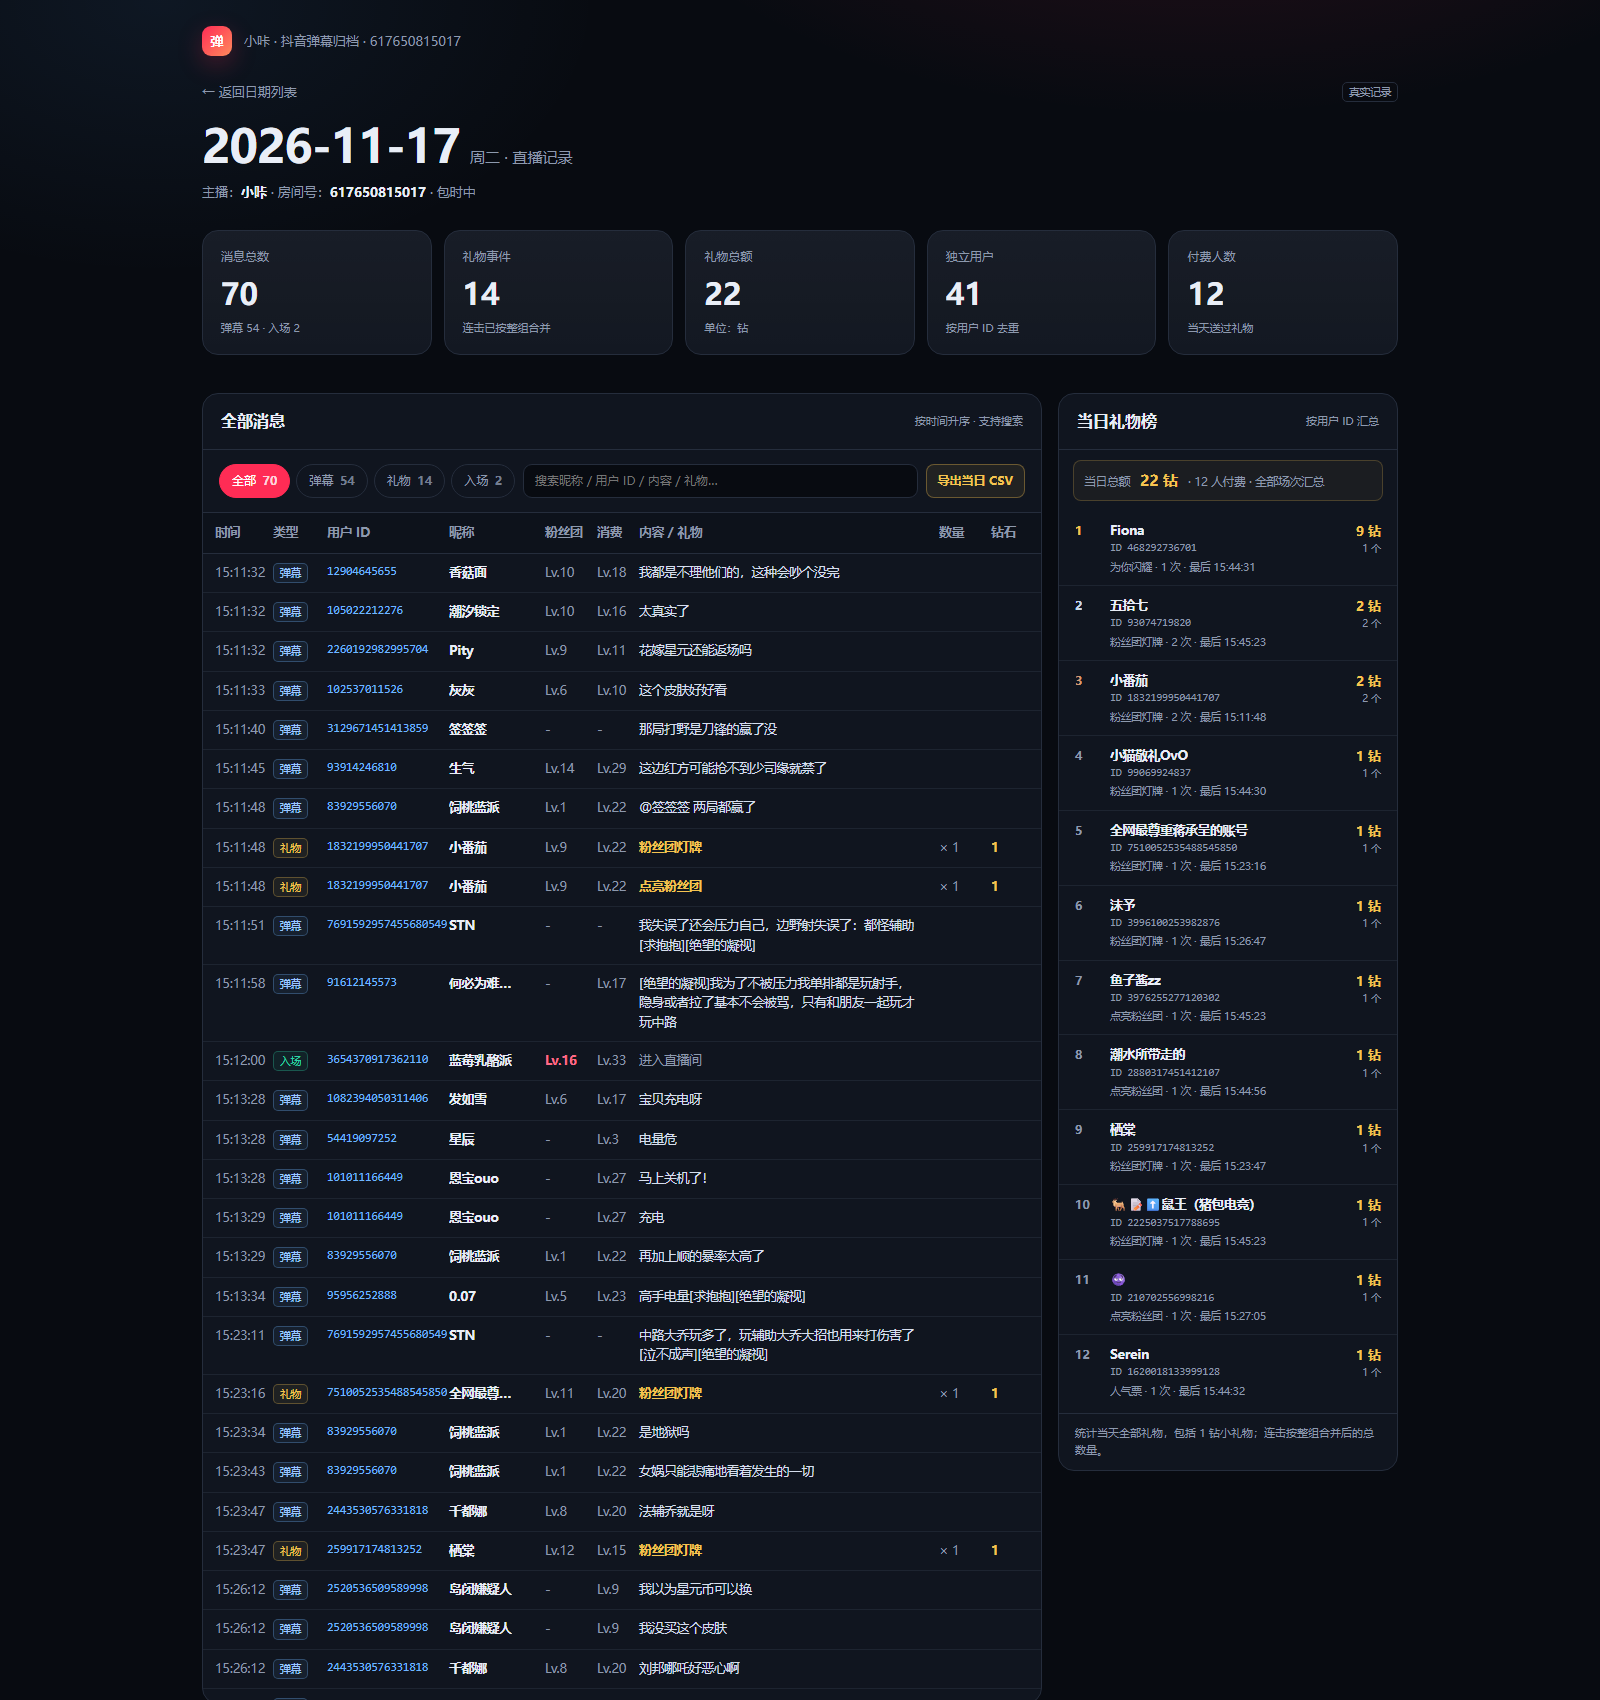
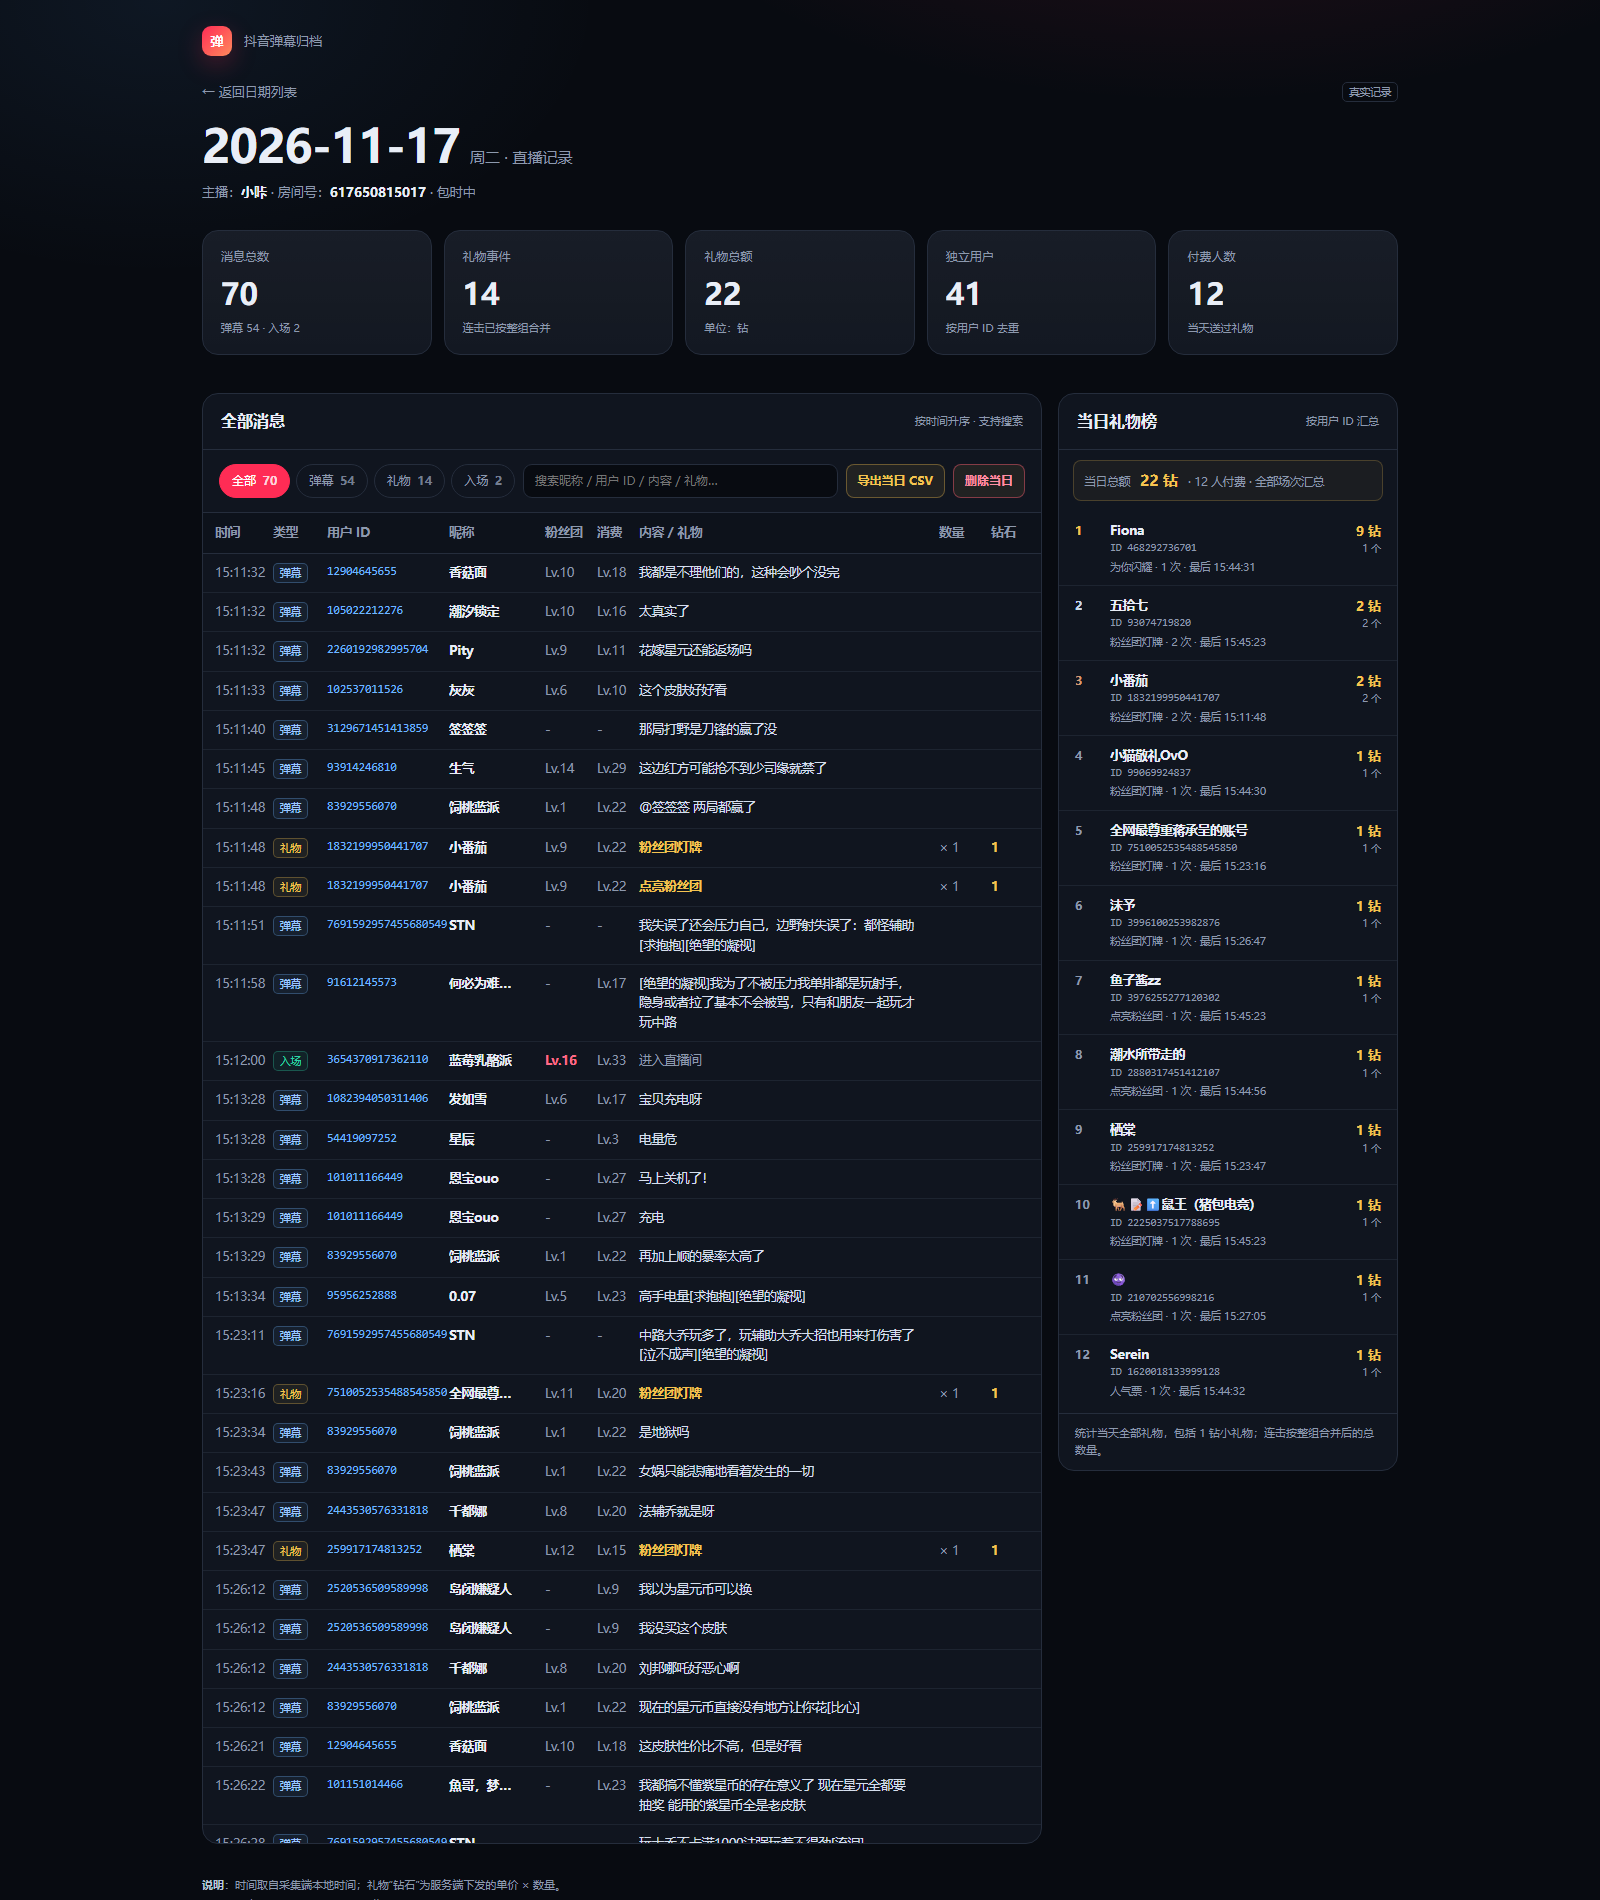
Add daily archive deletion and fixed brand bar

diff --git a/site_builder.py b/site_builder.py
@@ -192,6 +192,31 @@ def _room_meta_html(meta: dict[str, Any], live_id: str | None) -> str:
     return " · ".join(parts)
 
 
+def _deleted_days_file(log_dir: str | Path, live_id: str | None) -> Path:
+    return Path(log_dir) / f"deleted_days_{live_id or 'all'}.json"
+
+
+def load_deleted_days(log_dir: str | Path, live_id: str | None) -> set[str]:
+    path = _deleted_days_file(log_dir, live_id)
+    try:
+        data = json.loads(path.read_text(encoding="utf-8"))
+    except Exception:
+        return set()
+    if not isinstance(data, list):
+        return set()
+    return {str(day) for day in data if len(str(day)) == 10}
+
+
+def mark_day_deleted(log_dir: str | Path, live_id: str | None, day: str) -> None:
+    days = load_deleted_days(log_dir, live_id)
+    days.add(day)
+    path = _deleted_days_file(log_dir, live_id)
+    path.parent.mkdir(parents=True, exist_ok=True)
+    path.write_text(
+        json.dumps(sorted(days), ensure_ascii=False, indent=2), encoding="utf-8"
+    )
+
+
 def load_messages_from_logs(
     log_dir: str | Path, live_id: str | None = None
 ) -> list[dict[str, Any]]:
@@ -250,6 +275,9 @@ def load_messages_from_logs(
             gift_best[key] = row
 
     rows = list(chat_best.values()) + list(gift_best.values())
+    deleted_days = load_deleted_days(log_dir, live_id)
+    if deleted_days:
+        rows = [r for r in rows if r["received_at"][:10] not in deleted_days]
     rows.sort(key=lambda r: (r["received_at"], r["msg_id"]))
     return rows
 
@@ -607,6 +635,8 @@ h1 { margin: 10px 0 12px; font-size: clamp(34px, 5vw, 56px); line-height: 1.12; 
   padding: 7px 11px; font: inherit; font-size: 12px; font-weight: 650;
 }
 .btn:hover { background: rgba(245,196,81,.16); }
+.btn.danger { color: #ff8fa3; border-color: rgba(255,93,115,.45); }
+.btn.danger:hover { background: rgba(255,93,115,.14); }
 .board-sum {
   display: flex; align-items: baseline; gap: 10px; flex-wrap: wrap;
   margin: 10px 14px 2px; padding: 8px 10px; border: 1px solid rgba(245,196,81,.22);
@@ -701,7 +731,7 @@ INDEX_TEMPLATE = """<!doctype html>
 </head>
 <body>
 <div class="wrap">
-  <div class="brandbar"><span class="logo">弹</span><span>__TITLE__</span></div>
+  <div class="brandbar"><span class="logo">弹</span><span>抖音弹幕归档</span></div>
   <div class="hero">
     <div class="kicker">Douyin Live Archive</div>
     <h1>直播弹幕与礼物<br>按天归档</h1>
@@ -755,7 +785,7 @@ DAY_TEMPLATE = """<!doctype html>
 </head>
 <body>
 <div class="wrap">
-  <div class="brandbar"><span class="logo">弹</span><a href="index.html">__TITLE__</a></div>
+  <div class="brandbar"><span class="logo">弹</span><a href="index.html">抖音弹幕归档</a></div>
   <div class="daynav"><a class="back" href="index.html">← 返回日期列表</a><span class="badge">__BADGE_TEXT__</span></div>
   <div class="day-title"><h1>__DATE__</h1><span class="weekday">__WEEKDAY__ · 直播记录</span></div>
   <div class="day-meta">__ROOM_META__</div>
@@ -779,6 +809,7 @@ DAY_TEMPLATE = """<!doctype html>
         </div>
         <input id="search" class="search" placeholder="搜索昵称 / 用户 ID / 内容 / 礼物…">
         <button class="btn" id="export-day">导出当日 CSV</button>
+        <button class="btn danger" id="delete-day">删除当日</button>
       </div>
       <div class="table-wrap">
         <table>
@@ -908,6 +939,23 @@ function downloadDayCsv() {
   URL.revokeObjectURL(a.href);
 }
 document.getElementById("export-day").addEventListener("click", downloadDayCsv);
+async function deleteDay() {
+  const day = "__DATE__";
+  if (!confirm("确定从归档中删除 " + day + " 的记录吗？原始日志会保留。" )) return;
+  try {
+    const resp = await fetch("/api/delete-day", {
+      method: "POST",
+      headers: {"Content-Type": "application/json"},
+      body: JSON.stringify({day: day})
+    });
+    const result = await resp.json().catch(() => ({}));
+    if (!resp.ok || !result.ok) throw new Error(result.error || "删除失败");
+    location.href = "index.html";
+  } catch (err) {
+    alert("删除失败：" + err.message + String.fromCharCode(10) + String.fromCharCode(10) + "请从弹幕助手打开归档网站后再删除。" );
+  }
+}
+document.getElementById("delete-day").addEventListener("click", deleteDay);
 </script>
 </body>
 </html>
@@ -1028,6 +1076,12 @@ def build_site(
             _render_day(title, day, day_rows, mock, meta=meta, live_id=live_id),
             encoding="utf-8",
         )
+    for stale in out.glob("????-??-??.html"):
+        if stale.stem not in days:
+            try:
+                stale.unlink()
+            except OSError:
+                pass
     manifest = {
         "title": title,
         "generated_at": datetime.now().strftime("%Y-%m-%d %H:%M:%S"),

diff --git a/site_server.py b/site_server.py
@@ -1,0 +1,95 @@
+# -*- coding: utf-8 -*-
+"""Local static-site server with a tiny delete API.
+
+The archive is plain HTML, but deleting a day needs to update the local
+logs/manifest.  Serving the site from 127.0.0.1 lets the page call a local
+API without requiring an external server.
+"""
+
+from __future__ import annotations
+
+import json
+from http.server import SimpleHTTPRequestHandler, ThreadingHTTPServer
+from pathlib import Path
+from threading import Thread
+from typing import Callable
+from urllib.parse import urlparse
+
+
+class SiteServer:
+    def __init__(
+        self,
+        directory: str | Path,
+        on_delete: Callable[[str], bool],
+    ):
+        self.directory = Path(directory)
+        self.on_delete = on_delete
+        self.httpd = ThreadingHTTPServer(("127.0.0.1", 0), self._handler())
+        self.thread = Thread(target=self.httpd.serve_forever, daemon=True)
+
+    @property
+    def port(self) -> int:
+        return int(self.httpd.server_address[1])
+
+    def start(self) -> "SiteServer":
+        self.thread.start()
+        return self
+
+    def stop(self) -> None:
+        try:
+            self.httpd.shutdown()
+        finally:
+            self.httpd.server_close()
+
+    def _handler(self):
+        outer = self
+
+        class Handler(SimpleHTTPRequestHandler):
+            def __init__(self, *args, **kwargs):
+                super().__init__(
+                    *args, directory=str(outer.directory), **kwargs
+                )
+
+            def log_message(self, fmt, *args):
+                pass
+
+            def _json(self, code: int, payload: dict):
+                body = json.dumps(payload, ensure_ascii=False).encode("utf-8")
+                self.send_response(code)
+                self.send_header("Content-Type", "application/json; charset=utf-8")
+                self.send_header("Content-Length", str(len(body)))
+                self.end_headers()
+                self.wfile.write(body)
+
+            def do_POST(self):
+                if urlparse(self.path).path != "/api/delete-day":
+                    self.send_error(404)
+                    return
+                try:
+                    length = int(self.headers.get("Content-Length", "0") or 0)
+                    if length <= 0 or length > 1_000_000:
+                        raise ValueError("empty request")
+                    payload = json.loads(self.rfile.read(length).decode("utf-8"))
+                    day = str(payload.get("day", "")).strip()
+                    if len(day) != 10 or day[4] != "-" or day[7] != "-":
+                        raise ValueError("invalid day")
+                except Exception as exc:
+                    self._json(400, {"ok": False, "error": str(exc)})
+                    return
+                try:
+                    ok = bool(outer.on_delete(day))
+                    self._json(
+                        200 if ok else 400,
+                        {"ok": ok, "error": "" if ok else "删除失败"},
+                    )
+                except Exception as exc:
+                    self._json(500, {"ok": False, "error": str(exc)})
+
+        return Handler
+
+
+def start_site_server(
+    directory: str | Path,
+    on_delete: Callable[[str], bool],
+) -> SiteServer:
+    return SiteServer(directory, on_delete).start()

diff --git a/aurora_gui.py b/aurora_gui.py
@@ -64,6 +64,8 @@ class AuroraApp:
         self.gift_order: list[str] = []
         self._last_auto_export_events = -1
         self._auto_export_job = None
+        self.site_server = None
+        self._site_server_dir: Path | None = None
 
         self._setup_style()
         self._build_topbar()
@@ -816,7 +818,18 @@ class AuroraApp:
             pass
         if self.client is not None:
             self.client.stop()
+        self._stop_site_server()
         self.root.destroy()
+
+    def _stop_site_server(self):
+        server = self.site_server
+        self.site_server = None
+        self._site_server_dir = None
+        if server is not None:
+            try:
+                server.stop()
+            except Exception:
+                pass
 
     def _auto_export_loop(self):
         """定期把当天日志刷进静态站点；跨天时会自动生成新的日期页。"""
@@ -859,10 +872,43 @@ class AuroraApp:
             site_builder.build_site(
                 data, out, title=title, meta=meta, live_id=live_id
             )
+
+            def on_delete(day: str) -> bool:
+                if not live_id:
+                    return False
+                site_builder.mark_day_deleted(logs, live_id, day)
+                remaining = site_builder.load_messages_from_logs(
+                    logs, live_id=live_id
+                )
+                site_builder.build_site(
+                    remaining,
+                    out,
+                    title=title,
+                    meta=meta,
+                    live_id=live_id,
+                )
+                self._last_auto_export_events = -1
+                return True
+
             if open_browser:
                 import webbrowser
 
-                webbrowser.open((out / "index.html").as_uri())
+                if self.site_server is None or self._site_server_dir != out:
+                    self._stop_site_server()
+                    try:
+                        from site_server import start_site_server
+
+                        self.site_server = start_site_server(out, on_delete)
+                        self._site_server_dir = out
+                    except Exception:
+                        self.site_server = None
+                        self._site_server_dir = None
+                if self.site_server is not None:
+                    webbrowser.open(
+                        f"http://127.0.0.1:{self.site_server.port}/index.html"
+                    )
+                else:
+                    webbrowser.open((out / "index.html").as_uri())
             if not quiet:
                 messagebox.showinfo("导出网站", f"已导出 {len(data)} 条消息到：\n{out}")
             return True

diff --git a/README_GUI.md b/README_GUI.md
@@ -82,11 +82,13 @@ site_617650815017/
 ```
 
 - **自动更新**：程序运行期间每 2 分钟检查一次，有新内容就重新生成；关闭程序时再更新一次。跨天会自动生成新的日期页。
+- 网站最上面固定显示「抖音弹幕归档」；主播名、房间号放在每张日期卡片和日期页顶部。
 - 每天一页，按采集时间升序；支持按「全部 / 弹幕 / 礼物 / 入场」筛选和关键词搜索。
-- 首页「按日期查看」的每张日期卡片显示**主播名、房间号**；日期页顶部同样显示，并在礼物榜顶部显示**当日总额、付费人数**，同一天多场直播会合并统计。
-- 日期页有「导出当日 CSV」，首页有「导出全部 CSV」，可直接下载，不需要服务器。
+- 日期页顶部显示**主播名、房间号**，礼物榜顶部显示**当日总额、付费人数**，同一天多场直播会合并统计。
+- 日期页有「导出当日 CSV」「删除当日」，首页有「导出全部 CSV」。
+- **删除当日**会从归档中移除该日（原始 `logs/` 保留），只在从程序里点「导出网站」打开的页面可用；直接双击 HTML 时没有本地删除服务，会提示从程序打开。
 - 当日礼物榜按 **用户 ID** 汇总当天全部礼物（包含 1 钻小礼物）；连击按整组合并。
-- 纯静态页面，双击 `site_<直播间>/index.html` 即可看，不需要启动服务器。
+- 纯静态页面，双击 `site_<直播间>/index.html` 即可查看；但「删除当日」需要程序启动的本地服务。
 - 命令行也可以单独生成：`python site_builder.py --logs logs --out site_617650815017 --live-id 617650815017`
 - 想先看样式：打开 `site_preview/index.html`（模拟数据）。
 
